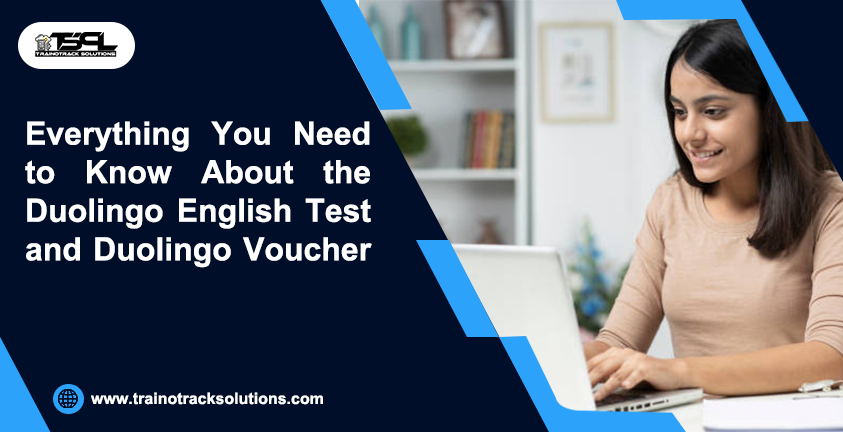
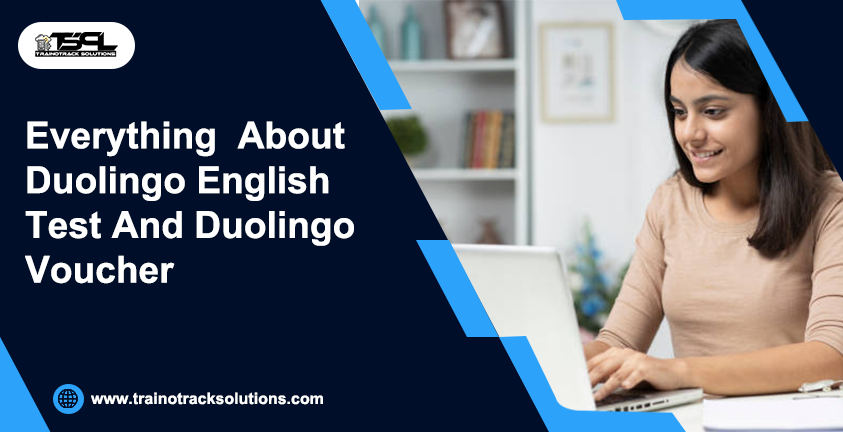
sdf

Changed region(s): [[0.0308, 0.2708, 0.4626, 0.662]]

diff --git a/blogs/duolingo-voucher.html b/blogs/duolingo-voucher.html
@@ -219,12 +219,13 @@
             <div class="row">
                <div class="col-xxl-12">
                   <div class="breadcrumb__wrapper z-index-6 d-flex justify-content-between align-items-center">
-                     <div class="breadcrumb__content">
-                        <h3 class="breadcrumb__title">Blog Details</h3>
-                     </div>
-                     <div class="breadcrumb__button">
+                     <!-- <div class="breadcrumb__content">
+                        <h3 class="breadcrumb__title">Everything Know About the Duolingo
+                        </h3>
+                     </div> -->
+                     <!-- <div class="breadcrumb__button">
                         <a class="tp-btn-white" href="contact.html">Contact us today<i class="far fa-arrow-right"></i></a>
-                     </div>
+                     </div> -->
                   </div>
                </div>
             </div>
@@ -236,11 +237,12 @@
       <div class="postbox__area pt-120 pb-120">
          <div class="container">
             <div class="row">
+            
                <div class="col-xxl-8 col-xl-8 col-lg-8 col-12">
                   <div class="postbox__wrapper">
                      <div class="postbox__item format-image transition-3">
                         <div class="postbox__content">
-                           <p><img class="w-100" src="/assets/img/blog/blogheader.png" alt=""></p>
+                           <p><img class="w-100" src="/assets/img/blog/blogheader.png" alt="Duolingo Voucher"></p>
                            <div class="postbox__meta">
                               <span><a href="#"><i class="fal fa-user-circle"></i> Navita Jassal </a></span>
                               <span><a href="#"><i class="fal fa-clock"></i> Dec 19, 2024</a></span>
@@ -248,7 +250,7 @@
                               <span><a href="#"><i class="fal fa-eye"></i> 1,526 views</a></span> -->
                            </div>
                            <h1 class="postbox__title">
-                            Everything You Need to Know About the Duolingo English Test and Duolingo Voucher
+                            Everything  About Duolingo English Test And Duolingo Voucher
                            </h1>
                            <div class="postbox__text">
                               <p>
@@ -307,7 +309,7 @@
                                  </div>
                                  <div class="col-md-6 col-lg-6">
                                     <div class="approch-thumb" style="margin-bottom: 0;">
-                                       <img src="/assets/img/blog/blog-details-2.jpg" alt="">
+                                       <img src="/assets/img/blog/features-of-duolingo.jpg" alt="Features of duolingo english test">
                                     </div>
                                  </div>
                                  <div class="col-md-12">
@@ -349,10 +351,10 @@
                               </div>
                               <div class="row gx-50">
                                  <div class="col-xl-6 mb-3">
-                                    <p><img src="/assets/img/blog/blog-details-3.jpg" alt=""></p>
+                                    <p><img src="/assets/img/blog/benefits-of-duolingo.jpg" alt="Benefits of duolingo"></p>
                                  </div>
                                  <div class="col-xl-6">
-                                    <p><img src="/assets/img/blog/blog-details-4.jpg" alt=""></p>
+                                    <p><img src="/assets/img/blog/university.jpg" alt="university"></p>
                                  </div>
                               </div>
 
@@ -365,7 +367,7 @@
                               </h2>
                               <div class="col-md-6 col-lg-6">
                                 <div class="approch-thumb" style="margin-bottom: 0;">
-                                   <img src="/assets/img/blog/blog-details-2.jpg" alt="">
+                                   <img src="/assets/img/blog/duolingo-exam-preparing.jpg" alt="duolingo preparing exam">
                                 </div>
                              </div>
                                 <div class="col-md-6 col-lg-6">
@@ -430,10 +432,10 @@
                             </div>
                             <div class="row gx-50">
                                <div class="col-xl-6 mb-3">
-                                  <p><img src="/assets/img/blog/blog-details-3.jpg" alt=""></p>
+                                  <p><img src="/assets/img/blog/study-abroad.jpg" alt="study abroad"></p>
                                </div>
                                <div class="col-xl-6">
-                                  <p><img src="/assets/img/blog/blog-details-4.jpg" alt=""></p>
+                                  <p><img src="/assets/img/blog/digree-complete.jpg" alt="certificate complete"></p>
                                </div>
                             </div>
 
@@ -446,20 +448,40 @@
                               </h2>
                                <div class="col-md-6 col-lg-6">
                                   <div class="approch-item" style="margin-bottom: 0;">
-                                    <p>
-                                        Booking a Duolingo voucher is simple and straightforward. To get started, visit the official Duolingo website, where you can select your test and apply any available Duolingo promo codes. Sign up or log in, choose a convenient date and time, and proceed to payment. If you’re looking to save, be sure to apply a Duolingo discount code or Duolingo redeem code to reduce your costs.
-                                    </p>                                                              
+                                    <ul>
+                                        <li id="step 1" style="color: #8a90a2;">
+                                            <sTrong>Step:1</sTrong> Visit the official Duolingo English Test website.
+                                        </li>
+                                        <li id="step 2" style="color: #8a90a2;">
+                                            <sTrong>Step:2</sTrong> Create an account using your email address.
+                                        </li>
+                                        <li id="step 3" style="color: #8a90a2;"> 
+                                            <strong>Step:3</strong> Cick the 'Purchase a Test' tab on the left-hand side of the screen.
+                                        </li>
+                                        <li id="step 4" style="color: #8a90a2;"> <strong>Step:4</strong>
+                                            On the screen, you will see two alternatives. You can either buy one test for $65 (INR 5,425.78) or you can buy our Duolingo exam voucher for an extra discount 
+                                        </li>
+                                        <li id="step 5" style="color: #8a90a2;"> <strong>Step:5</strong>
+                                            After visit “payment details” page at left corner there is an option on left corner of “APPLY COUPON CODE” here you have to put our coupon code 
+                                        </li>
+                                        <li id="step 6" style="color: #8a90a2;"> <strong>Step:6</strong>
+                                            Fill in your email address, nationality, and state/union territory, then pay the cost.
+                                        </li>
+                                        <li id="step 7" style="color: #8a90a2;">
+                                            Get success
+                                        </li>
+                                    </ul>                                                            
                                   </div>
                                </div>
                                <div class="col-md-6 col-lg-6">
                                   <div class="approch-thumb" style="margin-bottom: 0;">
-                                     <img src="/assets/img/blog/blog-details-2.jpg" alt="">
+                                     <img src="/assets/img/blog/booking-voucher.jpg" alt="book duolingo voucher">
                                   </div>
                                </div>
                                <div class="col-md-12">
-                                  <h3 class="aproch-title mt-5 pt-25" id="Career Opportunities with Duolingo Certification">
+                                  <h2 class="aproch-title mt-5 pt-25" id="Career Opportunities with Duolingo Certification">
                                     Career Opportunities with Duolingo Certification
-                                  </h3>
+                                  </h2>
                                   <p>
                                     A Duolingo voucher does more than just grant access to a language test—it opens doors to new career opportunities. Companies across the globe recognize Duolingo as a valid certification of English proficiency. With the Duolingo English test coupon code available, more candidates can access this affordable certification, further strengthening their resumes and careers.
 

diff --git a/recent.html b/recent.html
@@ -1,27 +1,28 @@
 
     <div class="sidebar__wrapper ">
-       <div class="sidebar__widget mb-40">        
+       <div class="sidebar__widget mb-40" style="padding: 10px;">        
           
-       <div class="sidebar__widget mb-40">
+       <div class="sidebar__widget mb-40" style="padding: 10px;">
           <h3 class="sidebar__widget-title">Recent Post</h3>
           <div class="sidebar__widget-content">
              <div class="sidebar__post rc__post">
                 <div class="rc__post mb-20 d-flex align-items-center">
-                   <div class="rc__post-thumb mr-20">
-                      <a href="blog-details.html"><img src="/assets/img/blog/blog-details-sm-3.jpg" alt=""></a>
+                   <div class="rc__post-thumb mr-20" >
+                      <a href="blog-details.html"><img src="/assets/img/blog/blogheader.png"  alt="Duolingo Voucher" style="width: 100%;"></a>
                    </div>
                    <div class="rc__post-content">
                       <div class="rc__meta">
-                         <span>4 March. 2022</span>
+                         <span>19 DEC. 2024</span>
                       </div>
                       <h3 class="rc__post-title">
-                         <a href="blog-details.html">Don’t Underestimate The Software</a>
+                         <a href="/blogs/duolingo-voucher.html">Everything About Duolingo English Test And Duolingo Voucher
+                        </a>
                       </h3>
                    </div>
                 </div>
-                <div class="rc__post mb-20 d-flex align-items-center">
-                   <div class="rc__post-thumb mr-20">
-                      <a href="blog-details.html"><img src="/assets/img/blog/blog-details-sm-4.jpg" alt=""></a>
+                <!-- <div class="rc__post mb-20 d-flex align-items-center">
+                   <div class="rc__post-thumb mr-20" >
+                      <a href="blog-details.html"><img src="/assets/img/blog/blogheader.png" alt="" style="width: 100%;"></a>
                    </div>
                    <div class="rc__post-content">
                       <div class="rc__meta">
@@ -31,10 +32,10 @@
                          <a href="blog-details.html">Designing Human-Machine Interfaces..</a>
                       </h3>
                    </div>
-                </div>
-                <div class="rc__post mb-20 d-flex align-items-center">
-                   <div class="rc__post-thumb mr-20">
-                      <a href="blog-details.html"><img src="/assets/img/blog/blog-details-sm-5.jpg" alt=""></a>
+                </div> -->
+                <!-- <div class="rc__post mb-20 d-flex align-items-center">
+                   <div class="rc__post-thumb mr-20" >
+                      <a href="blog-details.html"><img src="/assets/img/blog/blogheader.png" alt="" style="width: 100%;"></a>
                    </div>
                    <div class="rc__post-content">
                       <div class="rc__meta">
@@ -44,10 +45,10 @@
                          <a href="blog-details.html">Web Design Done Well: Excellent</a>
                       </h3>
                    </div>
-                </div>
-                <div class="rc__post mb-20 d-flex align-items-center">
+                </div> -->
+                <!-- <div class="rc__post mb-20 d-flex align-items-center">
                    <div class="rc__post-thumb mr-20">
-                      <a href="blog-details.html"><img src="/assets/img/blog/blog-details-sm-6.jpg" alt=""></a>
+                      <a href="blog-details.html"><img src="/assets/img/blog/blogheader.png"  alt="" style="width: 100%;"></a>
                    </div>
                    <div class="rc__post-content">
                       <div class="rc__meta">
@@ -57,7 +58,7 @@
                          <a href="blog-details.html">Don’t Underestimate The Software </a>
                       </h3>
                    </div>
-                </div>
+                </div> -->
              </div>
           </div>
        </div>

diff --git a/assets/js/main.js b/assets/js/main.js
@@ -590,7 +590,7 @@ $('#ship-box').on('click', function () {
     // Generate Table of Contents dynamically
     document.addEventListener('DOMContentLoaded', function () {
         const tocList = document.getElementById('toc-list');
-        const headings = document.querySelectorAll('article h2, article h3, article h4');
+        const headings = document.querySelectorAll('article h2, article h3, article h4, article li');
 
         headings.forEach((heading) => {
             const listItem = document.createElement('li');
@@ -604,6 +604,9 @@ $('#ship-box').on('click', function () {
             }
             if (heading.tagName.toLowerCase() === 'h4') {
                 listItem.style.marginLeft = '40px'; // Indent for deeper subsections
+            }
+			if (heading.tagName.toLowerCase() === 'li') {
+                listItem.style.marginLeft = '30px'; // Indent for deeper subsections
             }
 
             listItem.appendChild(link);
